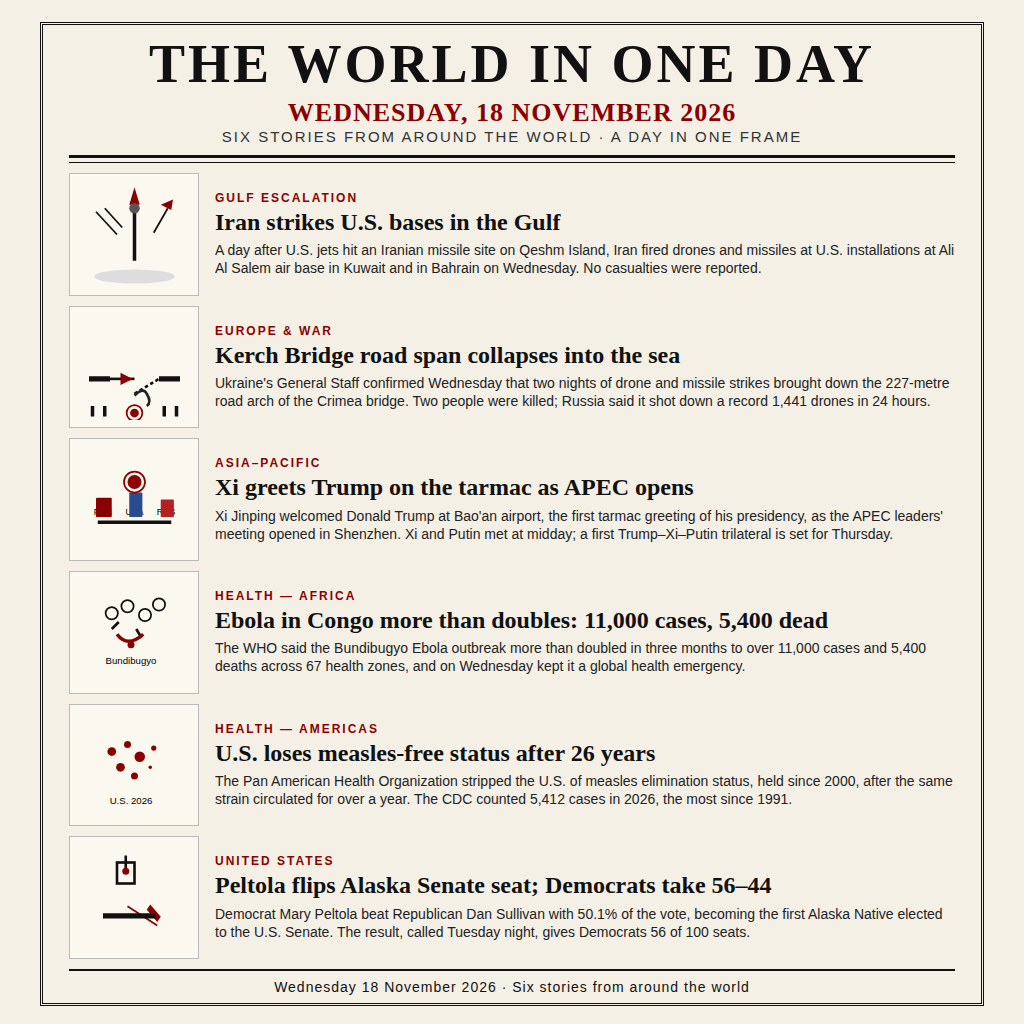
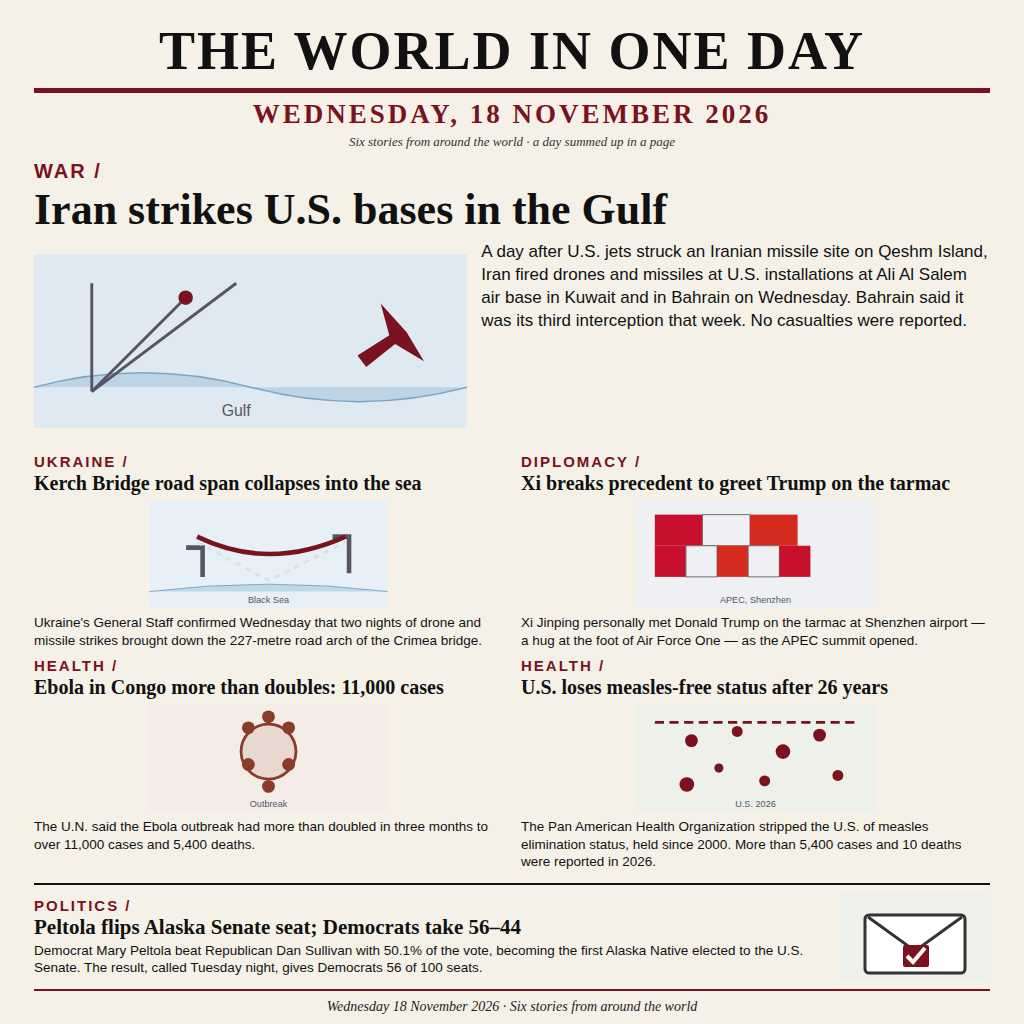
World news poster — 18 November 2026 (rebuild)

Changed region(s): [[0.0312, 0.1562, 0.9688, 1.0], [0.0312, 0.0312, 0.9688, 0.1562], [0.0938, 0.7188, 0.1562, 0.75]]

diff --git a/poster.html b/poster.html
@@ -3,219 +3,210 @@
 <head>
 <meta charset="UTF-8">
 <style>
-  * { margin:0; padding:0; box-sizing:border-box; }
-  html, body { width:1024px; height:1024px; }
+  * { margin: 0; padding: 0; box-sizing: border-box; }
+  html, body { width: 1024px; height: 1024px; }
   body {
-    width:1024px; height:1024px;
-    background:#f4f0e6; /* off-white paper */
-    color:#111;
-    font-family:Georgia, 'Times New Roman', serif;
-    padding:22px 40px 18px 40px;
-    overflow:hidden;
+    background: #f5f1e6;
+    font-family: Georgia, 'Times New Roman', serif;
+    color: #111;
+    display: flex; flex-direction: column;
+    padding: 24px 34px 20px;
   }
-  .paper {
-    width:100%; height:100%;
-    display:flex; flex-direction:column;
-    border:3px double #111;
-    padding:12px 26px 8px 26px;
-  }
+  .rule { border: none; border-top: 5px solid #7a1220; margin: 10px 0 4px; }
+  .rule-thin { border: none; border-top: 2px solid #7a1220; margin: 8px 0 0; }
+
   /* Masthead */
-  .masthead { text-align:center; }
-  .masthead h1 {
-    font-size:54px; letter-spacing:3px; font-weight:bold; line-height:1.02;
-    white-space:nowrap;
+  .masthead { text-align: center; }
+  .paper-name {
+    font-size: 54px; font-weight: 800; letter-spacing: 2px;
+    line-height: 1;
   }
-  .masthead .dateline {
-    font-size:26px; font-weight:bold; letter-spacing:1px;
-    color:#8b0000; /* dark red accent */
-    margin-top:6px;
-  }
-  .rule-double {
-    height:8px; border-top:3px solid #111; border-bottom:1px solid #111;
-    margin:10px 0 10px 0;
+  .dateline {
+    font-size: 27px; font-weight: 700; letter-spacing: 3px;
+    color: #7a1220; margin-top: 6px; text-transform: uppercase;
   }
   .tagline {
-    text-align:center; font-family:Arial, Helvetica, sans-serif;
-    font-size:15px; letter-spacing:2px; text-transform:uppercase;
-    margin-bottom:2px; color:#333;
+    font-size: 13px; font-style: italic; color: #333; margin-top: 4px;
   }
-  .rule-thin { height:0; border-top:1px solid #111; margin:8px 0 8px 0; }
-  /* Grid of stories */
-  .stories {
-    flex:1;
-    display:grid;
-    grid-template-rows: auto auto auto auto auto auto;
-    gap:10px 22px;
+
+  /* Main content: flexible rows */
+  .content {
+    flex: 1; display: flex; flex-direction: column;
+    gap: 12px; margin-top: 10px;
   }
-  .story { display:flex; align-items:stretch; }
-  .art {
-    flex:0 0 130px; width:130px; margin-right:16px;
-    border:1px solid #bbb; background:#fbf8f0;
-    display:flex; align-items:center; justify-content:center;
+
+  /* HERO */
+  .hero { width: 100%; }
+  .hero .sec-label { font-size: 20px; }
+  .hero h2 {
+    font-size: 44px; font-weight: 800; line-height: 1.05; margin: 4px 0 8px;
   }
-  .story-body { flex:1; min-width:0; display:flex; flex-direction:column; justify-content:center; }
-  .headline {
-    font-size:24px; font-weight:bold; line-height:1.05; margin-bottom:6px;
+  .hero .row { display: flex; gap: 14px; align-items: stretch; }
+  .hero .art { width: 46%; }
+  .hero .caption {
+    width: 54%; font-size: 17px; line-height: 1.35; font-family: Arial, Helvetica, sans-serif;
   }
-  .caption {
-    font-family:Arial, Helvetica, sans-serif;
-    font-size:14px; line-height:1.3; color:#222;
+
+  /* 2x2 grid */
+  .grid { display: grid; grid-template-columns: 1fr 1fr; grid-template-rows: auto auto; gap: 8px 18px; }
+  .cell { display: flex; flex-direction: column; }
+  .cell .sec-label { font-size: 15px; }
+  .cell h3 { font-size: 20px; font-weight: 800; line-height: 1.1; margin: 2px 0 4px; }
+  .cell .art { height: 108px; margin: 2px 0 6px; }
+  .cell .art svg { height: 100%; }
+  .cell .caption {
+    font-size: 13.5px; line-height: 1.3; font-family: Arial, Helvetica, sans-serif;
   }
-  .caption b { color:#8b0000; }
-  .sectionlabel {
-    font-family:Arial, Helvetica, sans-serif; font-size:12px;
-    letter-spacing:2px; text-transform:uppercase; color:#8b0000;
-    margin-bottom:5px; font-weight:bold;
+
+  /* section label */
+  .sec-label {
+    color: #7a1220; font-weight: 800; text-transform: uppercase;
+    letter-spacing: 2px; font-family: Arial, Helvetica, sans-serif;
   }
+  .sec-label::after { content: "  /"; color: #7a1220; }
+
+  /* Bottom strip */
+  .strip { width: 100%; display: flex; gap: 14px; align-items: center; border-top: 2px solid #111; padding-top: 8px; }
+  .strip .text { flex: 1; }
+  .strip .sec-label { font-size: 15px; }
+  .strip h3 { font-size: 21px; font-weight: 800; margin: 2px 0 3px; line-height: 1.1; }
+  .strip .caption { font-size: 13.5px; font-family: Arial, Helvetica, sans-serif; line-height: 1.3; }
+  .strip .art { width: 150px; height: 88px; }
+
   /* Footer */
   .footer {
-    margin-top:10px; border-top:2px solid #111;
-    padding-top:8px; text-align:center;
-    font-family:Arial, Helvetica, sans-serif;
-    font-size:14px; letter-spacing:1px;
+    text-align: center; font-size: 14px; font-style: italic; color: #222;
+    padding-top: 8px;
   }
+  svg { display: block; }
 </style>
 </head>
 <body>
-  <div class="paper">
-    <div class="masthead">
-      <h1>THE WORLD IN ONE DAY</h1>
-      <div class="dateline">WEDNESDAY, 18 NOVEMBER 2026</div>
-      <div class="tagline">Six stories from around the world &middot; A day in one frame</div>
-      <div class="rule-double"></div>
+  <div class="masthead">
+    <div class="paper-name">THE WORLD IN ONE DAY</div>
+    <div class="rule"></div>
+    <div class="dateline">Wednesday, 18 November 2026</div>
+    <div class="tagline">Six stories from around the world · a day summed up in a page</div>
+  </div>
+
+  <div class="content">
+    <!-- HERO: story 1 -->
+    <div class="hero">
+      <div class="sec-label">War</div>
+      <h2>Iran strikes U.S. bases in the Gulf</h2>
+      <div class="row">
+        <div class="art">
+          <svg width="100%" height="200" viewBox="0 0 300 120" preserveAspectRatio="xMidYMid meet">
+            <rect width="300" height="120" fill="#dfe9f2"/>
+            <path d="M0 92 Q75 72 150 92 T300 92" fill="#bcd4e6" stroke="#7fa4bf"/>
+            <line x1="40" y1="95" x2="40" y2="20" stroke="#556" stroke-width="2"/>
+            <line x1="40" y1="95" x2="140" y2="20" stroke="#556" stroke-width="2"/>
+            <line x1="40" y1="95" x2="105" y2="30" stroke="#556" stroke-width="2"/>
+            <circle cx="105" cy="30" r="5" fill="#7a1220"/>
+            <path d="M230 78 L250 62 L270 74 L258 54 L240 34 L246 56 L224 70 Z" fill="#7a1220"/>
+            <text x="140" y="112" font-size="11" fill="#556" font-family="Arial" text-anchor="middle">Gulf</text>
+          </svg>
+        </div>
+        <div class="caption">A day after U.S. jets struck an Iranian missile site on Qeshm Island, Iran fired drones and missiles at U.S. installations at Ali Al Salem air base in Kuwait and in Bahrain on Wednesday. Bahrain said it was its third interception that week. No casualties were reported.</div>
+      </div>
     </div>
 
-    <div class="stories">
-
-      <div class="story">
+    <!-- 2x2 grid: stories 2-5 -->
+    <div class="grid">
+      <div class="cell">
+        <div class="sec-label">Ukraine</div>
+        <h3>Kerch Bridge road span collapses into the sea</h3>
         <div class="art">
-          <svg width="105" height="105" viewBox="0 0 120 120">
-            <ellipse cx="60" cy="108" rx="46" ry="8" fill="#ddd"/>
-            <rect x="58" y="20" width="4" height="70" fill="#111"/>
-            <polygon points="60,6 54,26 66,26" fill="#8b0000"/>
-            <circle cx="60" cy="30" r="6" fill="#555"/>
-            <line x1="40" y1="60" x2="16" y2="34" stroke="#111" stroke-width="2"/>
-            <line x1="46" y1="52" x2="26" y2="30" stroke="#111" stroke-width="2"/>
-            <line x1="82" y1="58" x2="98" y2="30" stroke="#111" stroke-width="2"/>
-            <polygon points="104,20 90,26 102,32" fill="#8b0000"/>
+          <svg width="100%" height="118" viewBox="0 0 260 118" preserveAspectRatio="xMidYMid meet">
+            <rect width="260" height="118" fill="#e6f0f6"/>
+            <path d="M0 100 Q130 84 260 100" fill="#bfd9ea" stroke="#7fa4bf"/>
+            <path d="M40 52 L58 52 L58 84" fill="none" stroke="#556" stroke-width="5"/>
+            <path d="M200 40 L218 40 L218 80" fill="none" stroke="#556" stroke-width="5"/>
+            <path d="M52 40 Q130 78 214 40" fill="none" stroke="#7a1220" stroke-width="5"/>
+            <path d="M52 46 L130 88 L214 46" fill="none" stroke="#d8e2ea" stroke-width="3" stroke-dasharray="6 6"/>
+            <text x="130" y="112" font-size="10" fill="#556" font-family="Arial" text-anchor="middle">Black Sea</text>
           </svg>
         </div>
-        <div class="story-body">
-          <div class="sectionlabel">Gulf Escalation</div>
-          <div class="headline">Iran strikes U.S. bases in the Gulf</div>
-          <div class="caption">A day after U.S. jets hit an Iranian missile site on Qeshm Island, Iran fired drones and missiles at U.S. installations at Ali Al Salem air base in Kuwait and in Bahrain on Wednesday. No casualties were reported.</div>
-        </div>
+        <div class="caption">Ukraine's General Staff confirmed Wednesday that two nights of drone and missile strikes brought down the 227-metre road arch of the Crimea bridge.</div>
       </div>
 
-      <div class="story">
+      <div class="cell">
+        <div class="sec-label">Diplomacy</div>
+        <h3>Xi breaks precedent to greet Trump on the tarmac</h3>
         <div class="art">
-          <svg width="105" height="105" viewBox="0 0 120 120">
-            <rect x="8" y="70" width="24" height="6" fill="#111"/>
-            <rect x="88" y="70" width="24" height="6" fill="#111"/>
-            <rect x="10" y="104" width="4" height="12" fill="#111"/>
-            <rect x="24" y="104" width="4" height="12" fill="#111"/>
-            <rect x="92" y="104" width="4" height="12" fill="#111"/>
-            <rect x="106" y="104" width="4" height="12" fill="#111"/>
-            <line x1="32" y1="73" x2="60" y2="73" stroke="#111" stroke-width="3"/>
-            <line x1="60" y1="90" x2="88" y2="73" stroke="#111" stroke-width="3" stroke-dasharray="4 3"/>
-            <polygon points="44,66 58,73 44,80" fill="#8b0000"/>
-            <path d="M60 92 Q70 82 74 90 Q80 100 74 104" fill="none" stroke="#222" stroke-width="3"/>
-            <circle cx="60" cy="112" r="5" fill="#8b0000"/>
-            <circle cx="60" cy="112" r="9" fill="none" stroke="#8b0000" stroke-width="2"/>
+          <svg width="100%" height="118" viewBox="0 0 260 118" preserveAspectRatio="xMidYMid meet">
+            <rect width="260" height="118" fill="#eef0f3"/>
+            <rect x="20" y="16" width="52" height="34" fill="#c8102e"/>
+            <rect x="72" y="16" width="52" height="34" fill="#eef0f3" stroke="#666"/>
+            <rect x="124" y="16" width="52" height="34" fill="#d52b1e"/>
+            <rect x="20" y="50" width="34" height="34" fill="#c8102e"/>
+            <rect x="54" y="50" width="34" height="34" fill="#eef0f3" stroke="#666"/>
+            <rect x="88" y="50" width="34" height="34" fill="#d52b1e"/>
+            <rect x="122" y="50" width="34" height="34" fill="#eef0f3" stroke="#666"/>
+            <rect x="156" y="50" width="34" height="34" fill="#c8102e"/>
+            <text x="130" y="112" font-size="10" fill="#556" font-family="Arial" text-anchor="middle">APEC, Shenzhen</text>
           </svg>
         </div>
-        <div class="story-body">
-          <div class="sectionlabel">Europe &amp; War</div>
-          <div class="headline">Kerch Bridge road span collapses into the sea</div>
-          <div class="caption">Ukraine's General Staff confirmed Wednesday that two nights of drone and missile strikes brought down the 227-metre road arch of the Crimea bridge. Two people were killed; Russia said it shot down a record 1,441 drones in 24 hours.</div>
-        </div>
+        <div class="caption">Xi Jinping personally met Donald Trump on the tarmac at Shenzhen airport — a hug at the foot of Air Force One — as the APEC summit opened.</div>
       </div>
 
-      <div class="story">
+      <div class="cell">
+        <div class="sec-label">Health</div>
+        <h3>Ebola in Congo more than doubles: 11,000 cases</h3>
         <div class="art">
-          <svg width="105" height="105" viewBox="0 0 120 120">
-            <line x1="18" y1="86" x2="102" y2="86" stroke="#111" stroke-width="4"/>
-            <g font-family="Arial" font-size="10" text-anchor="middle">
-              <text x="24" y="78">PRC</text><text x="60" y="78">USA</text><text x="96" y="78">RUS</text>
+          <svg width="100%" height="118" viewBox="0 0 260 118" preserveAspectRatio="xMidYMid meet">
+            <rect width="260" height="118" fill="#f3ece7"/>
+            <circle cx="130" cy="52" r="30" fill="#e8d9d0" stroke="#8a3c2a" stroke-width="3"/>
+            <g fill="#8a3c2a">
+              <circle cx="130" cy="14" r="7"/><circle cx="152" cy="26" r="7"/><circle cx="152" cy="66" r="7"/>
+              <circle cx="130" cy="90" r="7"/><circle cx="108" cy="66" r="7"/><circle cx="108" cy="26" r="7"/>
             </g>
-            <rect x="16" y="58" width="18" height="22" fill="#8b0000" rx="1"/>
-            <rect x="54" y="52" width="15" height="28" fill="#2a4b8f" rx="1"/>
-            <rect x="90" y="60" width="15" height="20" fill="#b22222" rx="1"/>
-            <circle cx="60" cy="40" r="8" fill="#8b0000"/>
-            <circle cx="60" cy="40" r="12" fill="none" stroke="#8b0000" stroke-width="2"/>
+            <text x="130" y="112" font-size="10" fill="#556" font-family="Arial" text-anchor="middle">Outbreak</text>
           </svg>
         </div>
-        <div class="story-body">
-          <div class="sectionlabel">Asia–Pacific</div>
-          <div class="headline">Xi greets Trump on the tarmac as APEC opens</div>
-          <div class="caption">Xi Jinping welcomed Donald Trump at Bao'an airport, the first tarmac greeting of his presidency, as the APEC leaders' meeting opened in Shenzhen. Xi and Putin met at midday; a first Trump–Xi–Putin trilateral is set for Thursday.</div>
-        </div>
+        <div class="caption">The U.N. said the Ebola outbreak had more than doubled in three months to over 11,000 cases and 5,400 deaths.</div>
       </div>
 
-      <div class="story">
+      <div class="cell">
+        <div class="sec-label">Health</div>
+        <h3>U.S. loses measles-free status after 26 years</h3>
         <div class="art">
-          <svg width="105" height="105" viewBox="0 0 120 120">
-            <circle cx="34" cy="38" r="7" fill="none" stroke="#111" stroke-width="2"/>
-            <circle cx="52" cy="30" r="7" fill="none" stroke="#111" stroke-width="2"/>
-            <circle cx="72" cy="40" r="7" fill="none" stroke="#111" stroke-width="2"/>
-            <circle cx="88" cy="28" r="7" fill="none" stroke="#111" stroke-width="2"/>
-            <path d="M42 48 L34 56" stroke="#111" stroke-width="3"/>
-            <path d="M62 56 L68 66" stroke="#111" stroke-width="3"/>
-            <path d="M40 62 Q52 78 70 62" fill="none" stroke="#8b0000" stroke-width="4"/>
-            <circle cx="56" cy="74" r="4" fill="#8b0000"/>
-            <text x="56" y="96" font-family="Arial" font-size="11" text-anchor="middle">Bundibugyo</text>
+          <svg width="100%" height="118" viewBox="0 0 260 118" preserveAspectRatio="xMidYMid meet">
+            <rect width="260" height="118" fill="#eef1e8"/>
+            <g fill="#7a1220">
+              <circle cx="60" cy="40" r="7" fill="#7a1220"/><circle cx="110" cy="30" r="6" fill="#7a1220"/>
+              <circle cx="160" cy="52" r="8" fill="#7a1220"/><circle cx="90" cy="70" r="5" fill="#7a1220"/>
+              <circle cx="200" cy="34" r="7" fill="#7a1220"/><circle cx="140" cy="84" r="6" fill="#7a1220"/>
+              <circle cx="55" cy="88" r="8" fill="#7a1220"/><circle cx="220" cy="78" r="6" fill="#7a1220"/>
+            </g>
+            <path d="M20 20 L240 20" stroke="#7a1220" stroke-width="3" stroke-dasharray="10 6"/>
+            <text x="130" y="112" font-size="10" fill="#556" font-family="Arial" text-anchor="middle">U.S. 2026</text>
           </svg>
         </div>
-        <div class="story-body">
-          <div class="sectionlabel">Health — Africa</div>
-          <div class="headline">Ebola in Congo more than doubles: 11,000 cases, 5,400 dead</div>
-          <div class="caption">The WHO said the Bundibugyo Ebola outbreak more than doubled in three months to over 11,000 cases and 5,400 deaths across 67 health zones, and on Wednesday kept it a global health emergency.</div>
-        </div>
+        <div class="caption">The Pan American Health Organization stripped the U.S. of measles elimination status, held since 2000. More than 5,400 cases and 10 deaths were reported in 2026.</div>
       </div>
-
-      <div class="story">
-        <div class="art">
-          <svg width="105" height="105" viewBox="0 0 120 120">
-            <circle cx="34" cy="44" r="5" fill="#8b0000"/>
-            <circle cx="52" cy="36" r="4" fill="#8b0000"/>
-            <circle cx="66" cy="50" r="6" fill="#8b0000"/>
-            <circle cx="44" cy="62" r="5" fill="#8b0000"/>
-            <circle cx="60" cy="72" r="4" fill="#8b0000"/>
-            <circle cx="82" cy="40" r="3" fill="#8b0000"/>
-            <circle cx="78" cy="62" r="2" fill="#8b0000"/>
-            <text x="56" y="104" font-family="Arial" font-size="11" text-anchor="middle">U.S. 2026</text>
-          </svg>
-        </div>
-        <div class="story-body">
-          <div class="sectionlabel">Health — Americas</div>
-          <div class="headline">U.S. loses measles-free status after 26 years</div>
-          <div class="caption">The Pan American Health Organization stripped the U.S. of measles elimination status, held since 2000, after the same strain circulated for over a year. The CDC counted 5,412 cases in 2026, the most since 1991.</div>
-        </div>
-      </div>
-
-      <div class="story">
-        <div class="art">
-          <svg width="105" height="105" viewBox="0 0 120 120">
-            <rect x="40" y="20" width="20" height="24" fill="none" stroke="#111" stroke-width="3"/>
-            <line x1="50" y1="12" x2="50" y2="30" stroke="#111" stroke-width="3"/>
-            <circle cx="50" cy="30" r="4" fill="#8b0000"/>
-            <polygon points="86,88 74,74 78,68 90,82" fill="#8b0000"/>
-            <line x1="52" y1="70" x2="86" y2="92" stroke="#8b0000" stroke-width="2"/>
-            <rect x="24" y="78" width="60" height="6" fill="#111"/>
-          </svg>
-        </div>
-        <div class="story-body">
-          <div class="sectionlabel">United States</div>
-          <div class="headline">Peltola flips Alaska Senate seat; Democrats take 56–44</div>
-          <div class="caption">Democrat Mary Peltola beat Republican Dan Sullivan with 50.1% of the vote, becoming the first Alaska Native elected to the U.S. Senate. The result, called Tuesday night, gives Democrats 56 of 100 seats.</div>
-        </div>
-      </div>
-
     </div>
 
-    <div class="footer">
-      Wednesday 18 November 2026 &middot; Six stories from around the world
+    <!-- BOTTOM STRIP: story 6 -->
+    <div class="strip">
+      <div class="text">
+        <div class="sec-label">Politics</div>
+        <h3>Peltola flips Alaska Senate seat; Democrats take 56–44</h3>
+        <div class="caption">Democrat Mary Peltola beat Republican Dan Sullivan with 50.1% of the vote, becoming the first Alaska Native elected to the U.S. Senate. The result, called Tuesday night, gives Democrats 56 of 100 seats.</div>
+      </div>
+      <div class="art">
+        <svg width="150" height="88" viewBox="0 0 150 88" preserveAspectRatio="xMidYMid meet">
+          <rect width="150" height="88" fill="#eef0ec"/>
+          <rect x="25" y="22" width="100" height="58" rx="4" fill="#fff" stroke="#333" stroke-width="3"/>
+          <path d="M28 24 L75 58 L122 24" fill="none" stroke="#333" stroke-width="3"/>
+          <rect x="63" y="52" width="26" height="22" rx="2" fill="#7a1220"/>
+          <path d="M67 63 l6 6 l12 -14" fill="none" stroke="#fff" stroke-width="4"/>
+        </svg>
+      </div>
     </div>
   </div>
+
+  <div class="rule-thin"></div>
+  <div class="footer">Wednesday 18 November 2026 · Six stories from around the world</div>
 </body>
 </html>

diff --git a/main.ts b/main.ts
@@ -1,6 +1,11 @@
-import { mkdirSync, copyFileSync } from "node:fs";
+import { copyFileSync, existsSync, mkdirSync, statSync } from "node:fs";
 import { join } from "node:path";
 
 const outDir = process.env.MAKEFUN_OUTPUT_DIR || "/output";
 mkdirSync(outDir, { recursive: true });
-copyFileSync("entry.png", join(outDir, "entry.png"));
+const src = join(process.cwd(), "entry.png");
+const dest = join(outDir, "entry.png");
+if (!existsSync(src)) throw new Error("entry.png not found in " + process.cwd());
+copyFileSync(src, dest);
+const size = existsSync(dest) ? statSync(dest).size : 0;
+console.log(`Wrote ${dest} (${size} bytes, 1024x1024 PNG)`);
